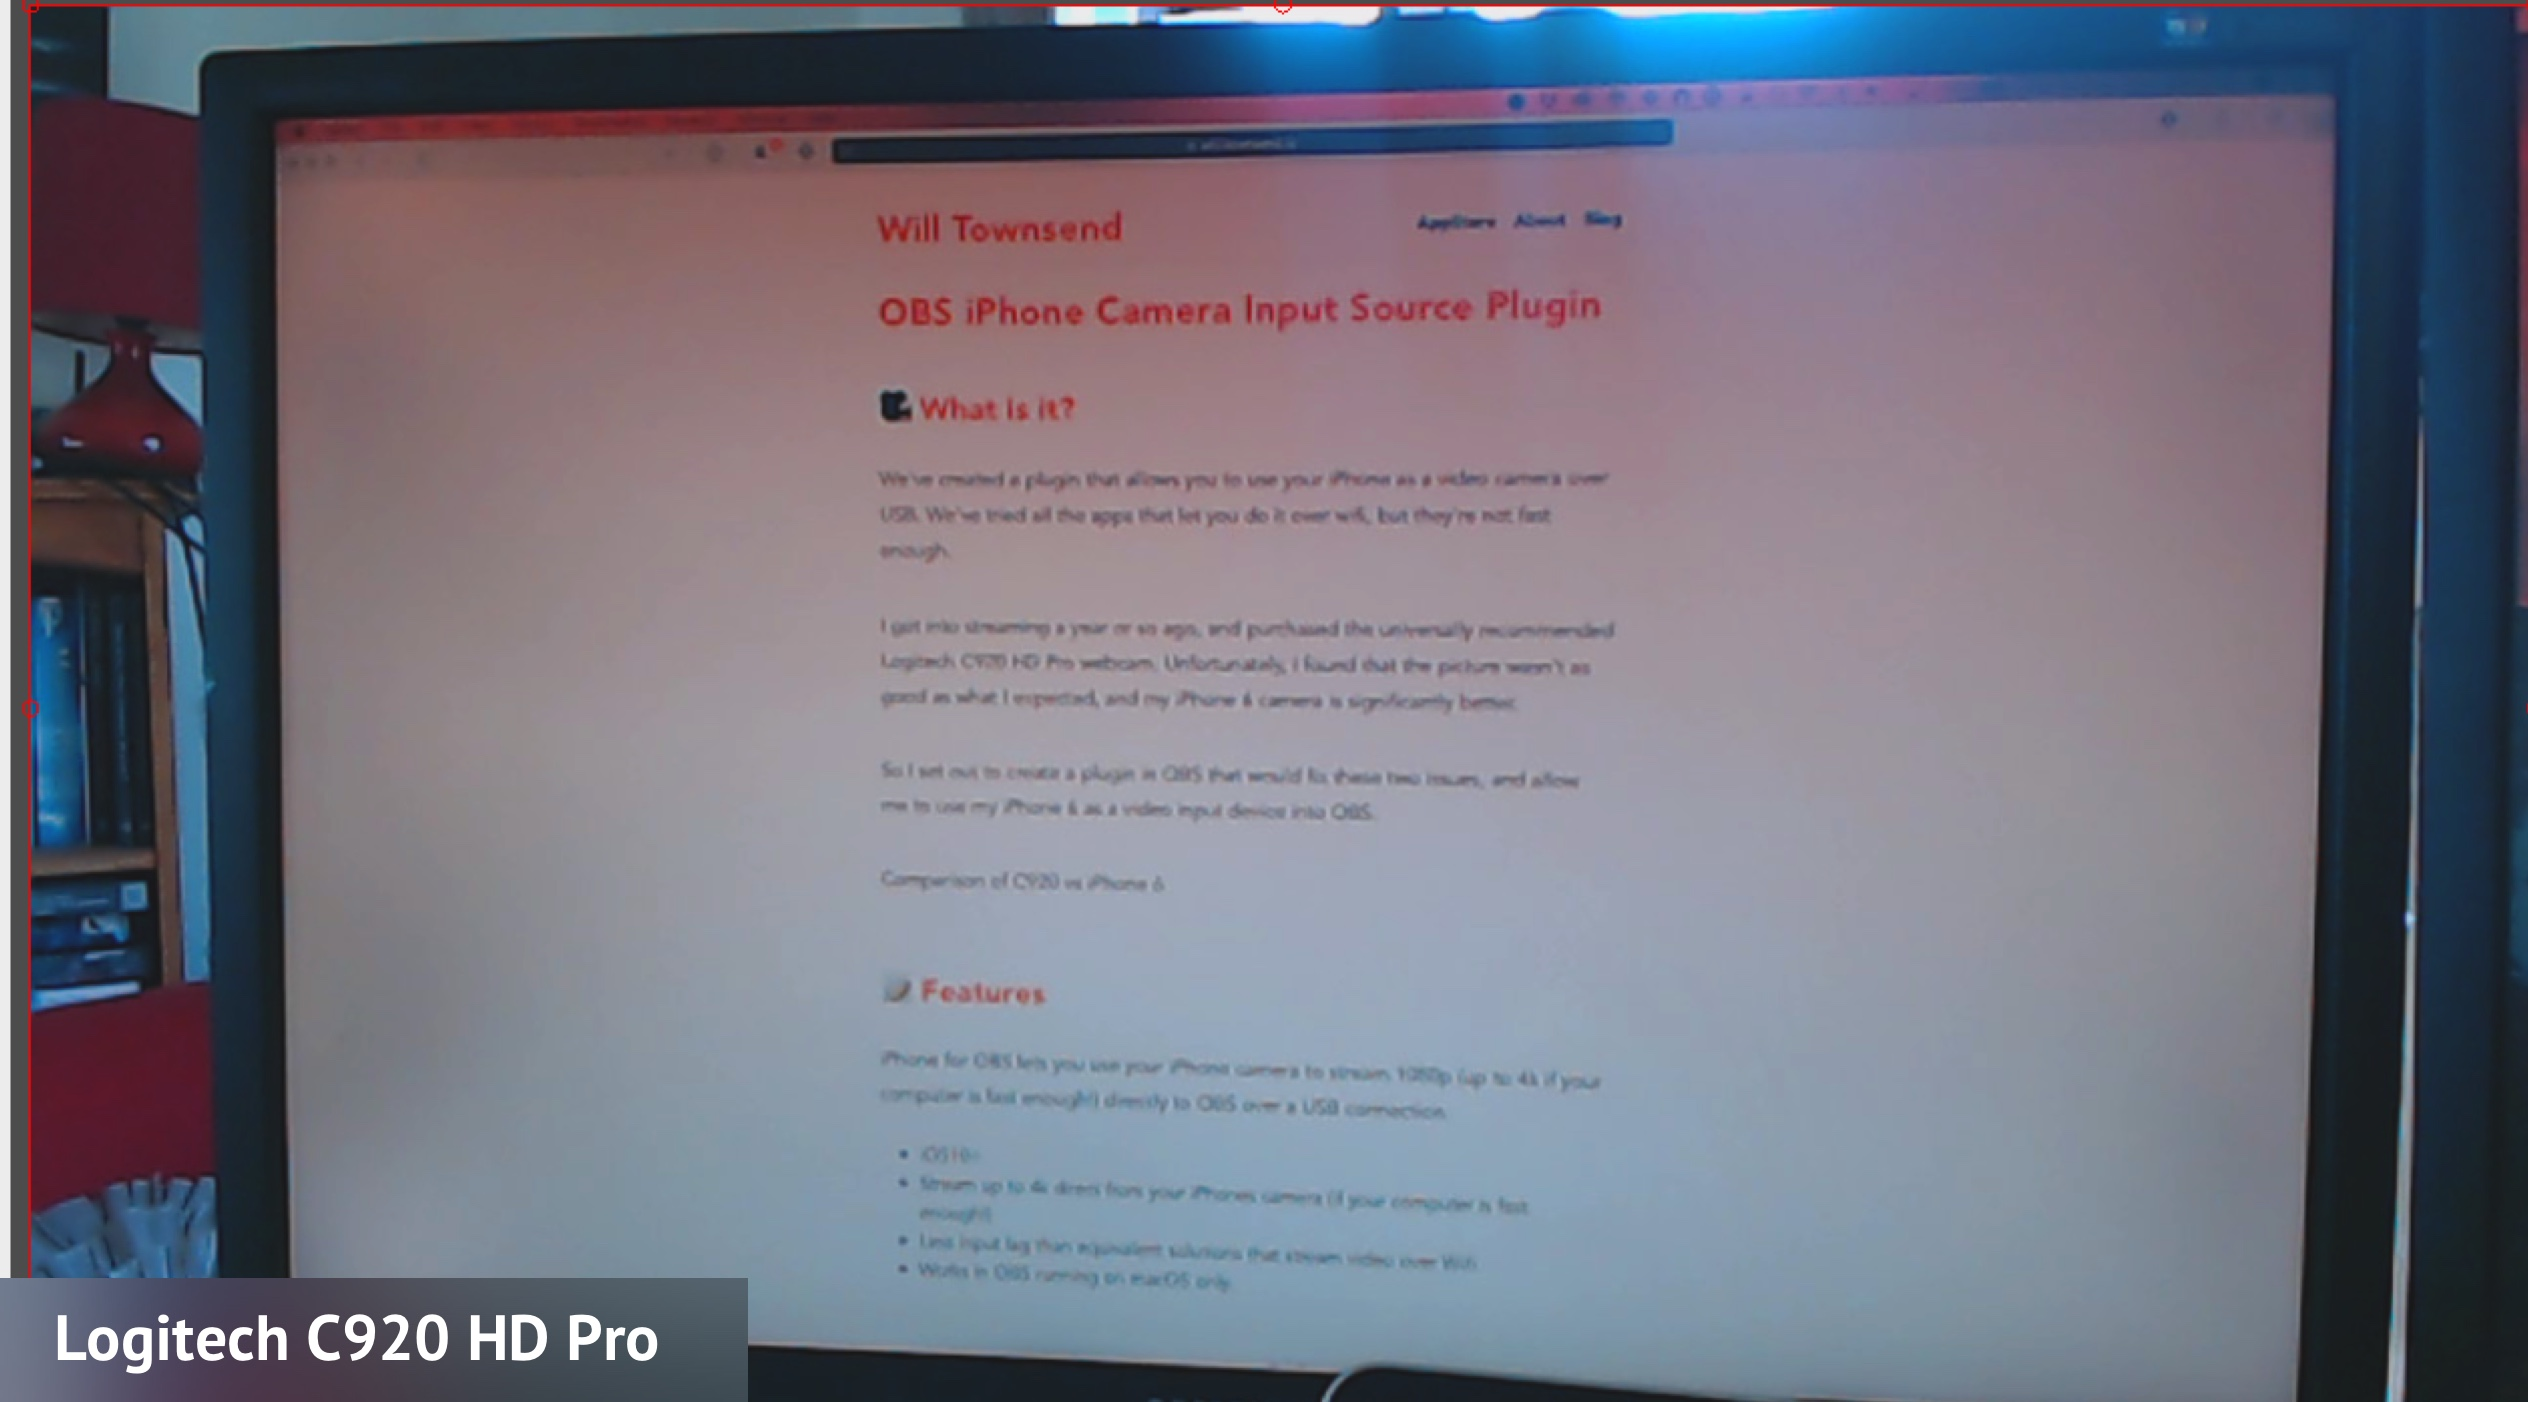
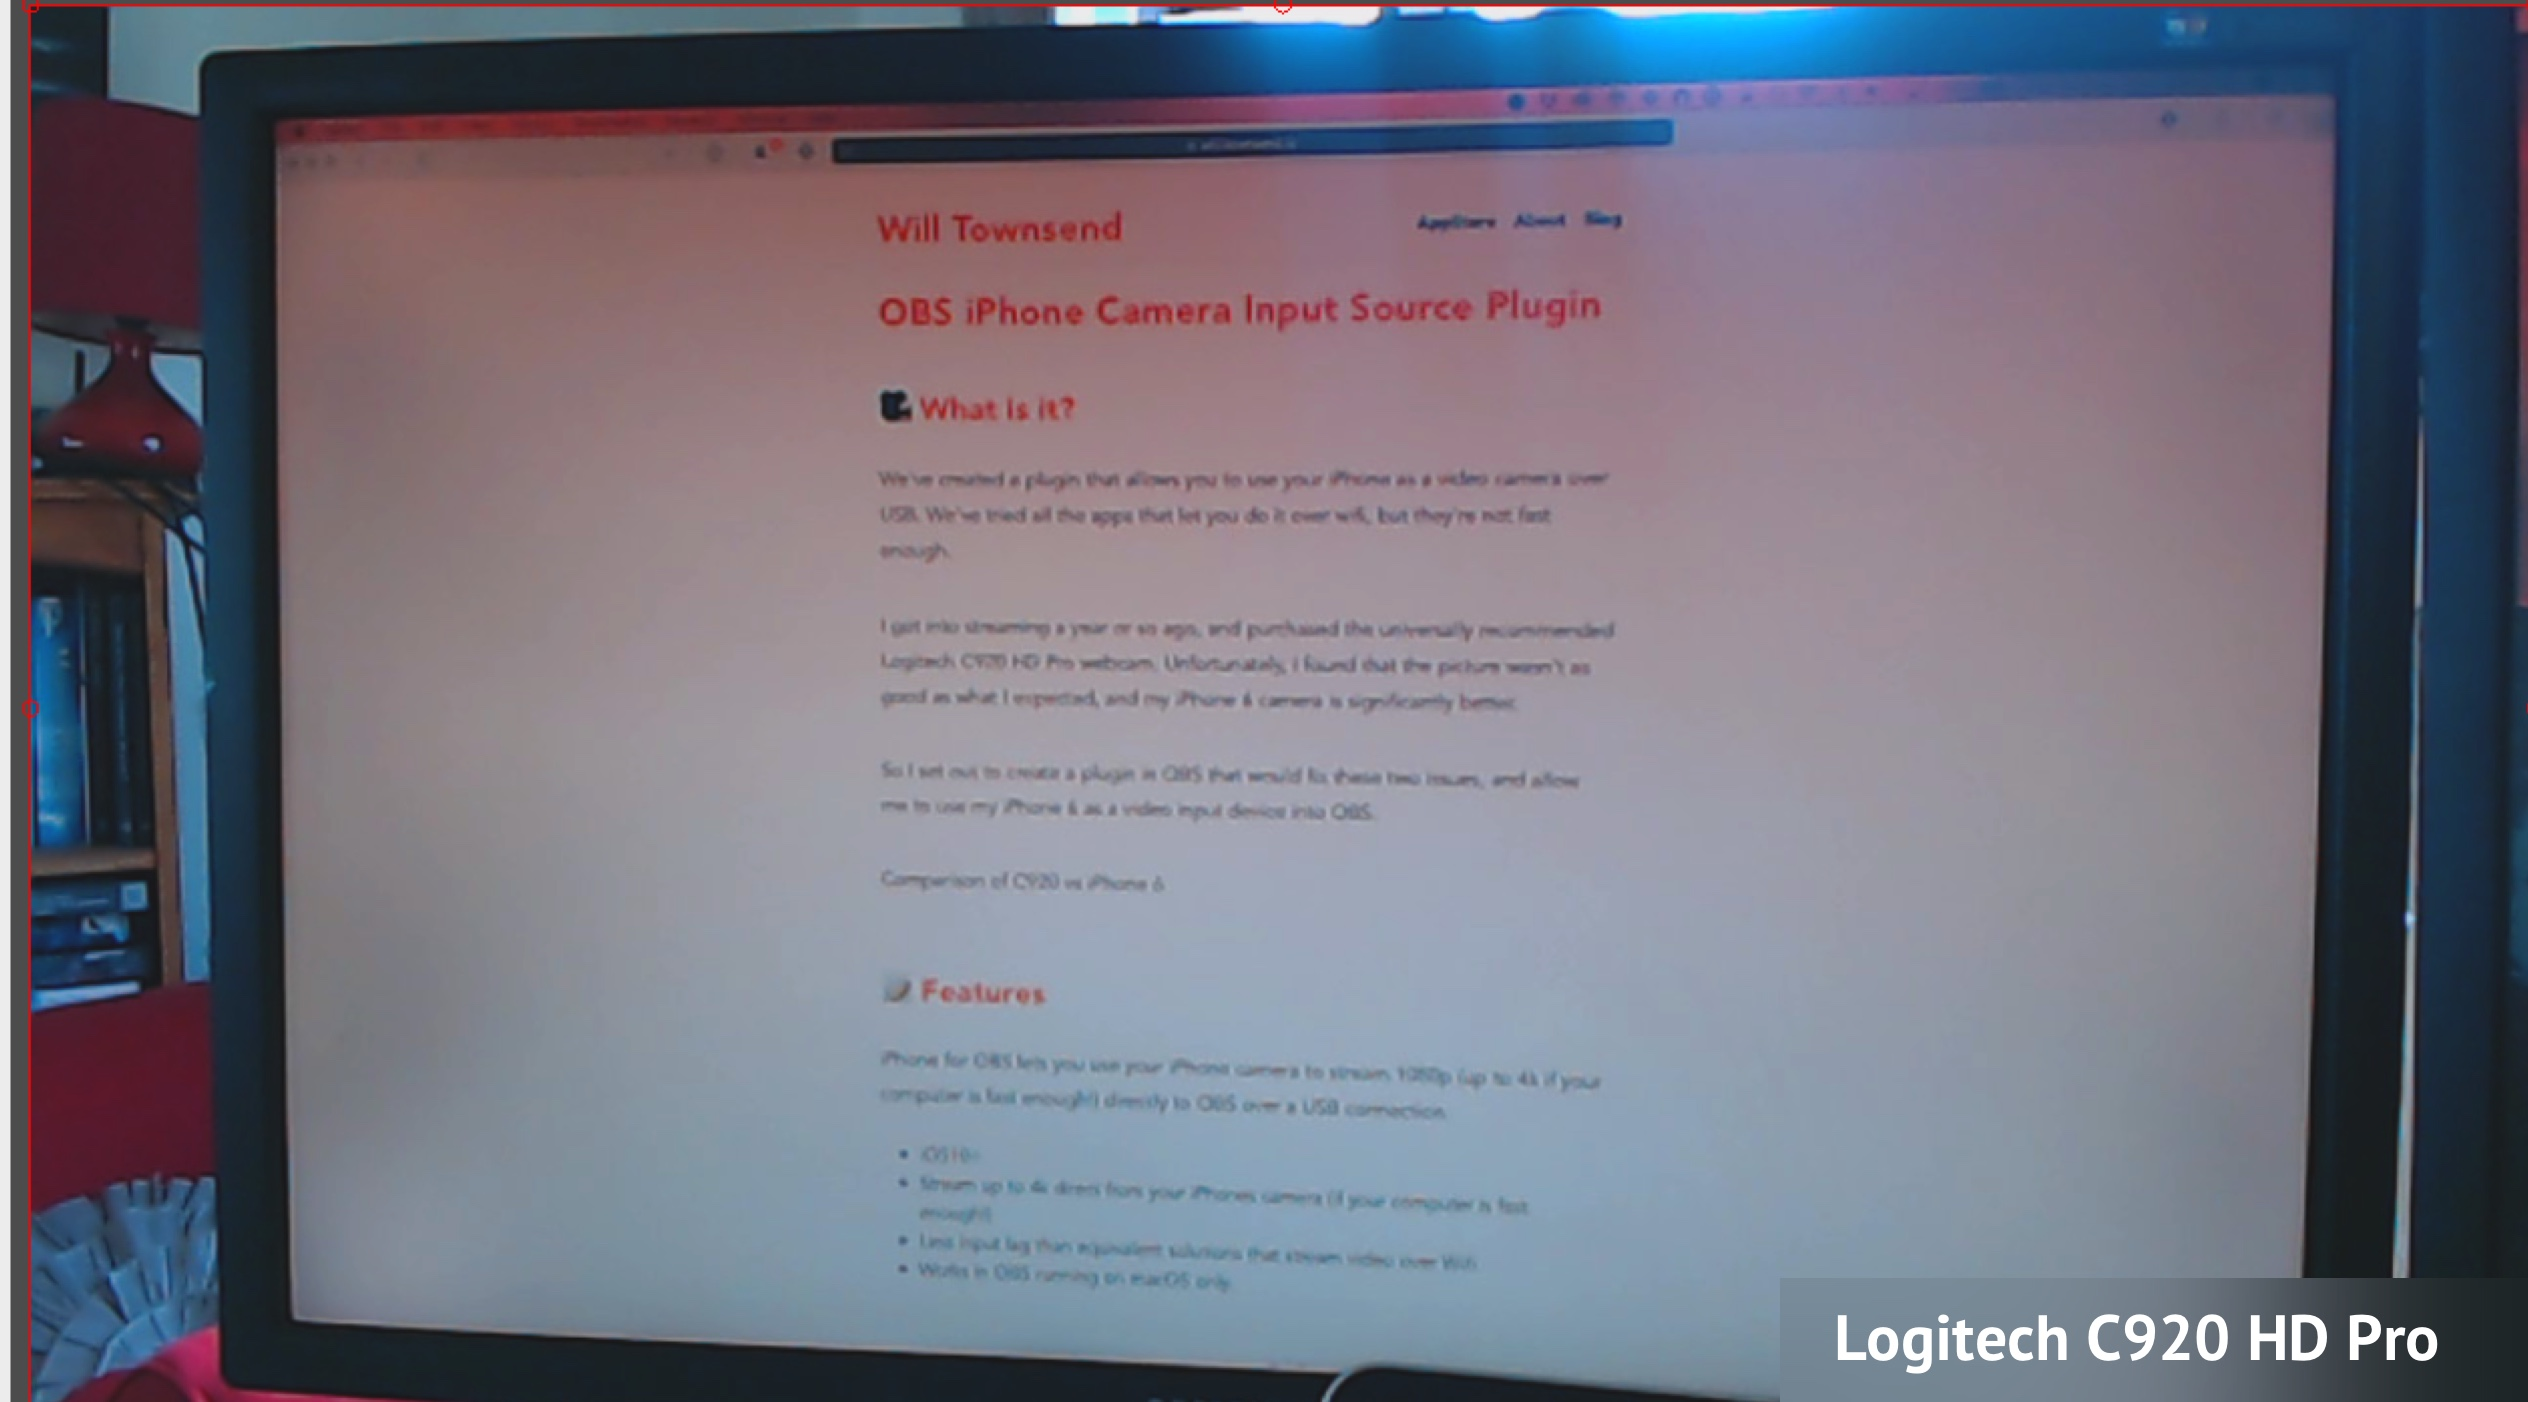
Improve image comparison slider

Changed region(s): [[0.0, 0.8894, 0.3125, 1.0], [0.7188, 0.8894, 0.9688, 1.0]]

diff --git a/products/obs-iphone/cocoen.min.js b/products/obs-iphone/cocoen.min.js
@@ -1,0 +1,1 @@
+!function(e){if("object"==typeof exports&&"undefined"!=typeof module)module.exports=e();else if("function"==typeof define&&define.amd)define([],e);else{var t;t="undefined"!=typeof window?window:"undefined"!=typeof global?global:"undefined"!=typeof self?self:this,t.Cocoen=e()}}(function(){return function e(t,n,i){function s(o,a){if(!n[o]){if(!t[o]){var l="function"==typeof require&&require;if(!a&&l)return l(o,!0);if(r)return r(o,!0);var d=new Error("Cannot find module '"+o+"'");throw d.code="MODULE_NOT_FOUND",d}var h=n[o]={exports:{}};t[o][0].call(h.exports,function(e){var n=t[o][1][e];return s(n?n:e)},h,h.exports,e,t,n,i)}return n[o].exports}for(var r="function"==typeof require&&require,o=0;o<i.length;o++)s(i[o]);return s}({1:[function(e,t,n){"use strict";function i(e,t){if(!(e instanceof t))throw new TypeError("Cannot call a class as a function")}var s=Object.assign||function(e){for(var t=1;t<arguments.length;t++){var n=arguments[t];for(var i in n)Object.prototype.hasOwnProperty.call(n,i)&&(e[i]=n[i])}return e},r=function(){function e(e,t){for(var n=0;n<t.length;n++){var i=t[n];i.enumerable=i.enumerable||!1,i.configurable=!0,"value"in i&&(i.writable=!0),Object.defineProperty(e,i.key,i)}}return function(t,n,i){return n&&e(t.prototype,n),i&&e(t,i),t}}(),o=function(){function e(t,n){i(this,e),this.options=s({},e.defaults,n),this.element=t||document.querySelector(".cocoen"),this.init()}return r(e,[{key:"init",value:function(){this.createElements(),this.addEventListeners(),this.dimensions()}},{key:"createElements",value:function(){var e=document.createElement("span");e.className=this.options.dragElementSelector.replace(".",""),this.element.appendChild(e);var t=document.createElement("div"),n=this.element.querySelector("img:first-child");t.appendChild(n.cloneNode(!0)),n.parentNode.replaceChild(t,n),this.dragElement=this.element.querySelector(this.options.dragElementSelector),this.beforeElement=this.element.querySelector("div:first-child"),this.beforeImage=this.beforeElement.querySelector("img")}},{key:"addEventListeners",value:function(){this.element.addEventListener("click",this.onTap.bind(this)),this.element.addEventListener("mousemove",this.onDrag.bind(this)),this.element.addEventListener("touchmove",this.onDrag.bind(this)),this.dragElement.addEventListener("mousedown",this.onDragStart.bind(this)),this.dragElement.addEventListener("touchstart",this.onDragStart.bind(this)),window.addEventListener("mouseup",this.onDragEnd.bind(this)),window.addEventListener("resize",this.dimensions.bind(this))}},{key:"dimensions",value:function(){this.elementWidth=parseInt(window.getComputedStyle(this.element).width,10),this.elementOffsetLeft=this.element.getBoundingClientRect().left+document.body.scrollLeft,this.beforeImage.style.width=this.elementWidth+"px",this.dragElementWidth=parseInt(window.getComputedStyle(this.dragElement).width,10),this.minLeftPos=this.elementOffsetLeft+10,this.maxLeftPos=this.elementOffsetLeft+this.elementWidth-this.dragElementWidth-10}},{key:"onTap",value:function(e){e.preventDefault(),this.leftPos=e.pageX?e.pageX:e.touches[0].pageX,this.requestDrag()}},{key:"onDragStart",value:function(e){e.preventDefault();var t=e.pageX?e.pageX:e.touches[0].pageX,n=this.dragElement.getBoundingClientRect().left+document.body.scrollLeft;this.posX=n+this.dragElementWidth-t,this.isDragging=!0}},{key:"onDragEnd",value:function(e){e.preventDefault(),this.isDragging=!1}},{key:"onDrag",value:function(e){e.preventDefault(),this.isDragging&&(this.moveX=e.pageX?e.pageX:e.touches[0].pageX,this.leftPos=this.moveX+this.posX-this.dragElementWidth,this.requestDrag())}},{key:"drag",value:function(){this.leftPos<this.minLeftPos?this.leftPos=this.minLeftPos:this.leftPos>this.maxLeftPos&&(this.leftPos=this.maxLeftPos);var e=this.leftPos+this.dragElementWidth/2-this.elementOffsetLeft;e/=this.elementWidth;var t=100*e+"%";this.dragElement.style.left=t,this.beforeElement.style.width=t,this.options.dragCallback&&this.options.dragCallback(e)}},{key:"requestDrag",value:function(){window.requestAnimationFrame(this.drag.bind(this))}}]),e}();o.defaults={dragElementSelector:".cocoen-drag",dragCallback:null},t.exports=o},{}]},{},[1])(1)});

diff --git a/products/obs-iphone/index.html b/products/obs-iphone/index.html
@@ -15,25 +15,28 @@ title: OBS iPhone Camera Input Source Plugin
 </script>
 
 <style>
- img {
+ .cocoen-container {
   margin: 0 -30%;
   width: 160%;
 }
 
 @media (max-width: 1000px) {
-   img {
+	.cocoen-container {
     margin: 0 -10%;
     width: 120%;
   }
 }
 
 @media (max-width: 800px) {
-  img {
+	.cocoen-container {
     margin: 0 0;
     width: 100%;
   }
 }
 </style>
+
+<script src="./cocoen.min.js"></script>
+<link rel="stylesheet" href="./cocoen.min.css" />
 
 <!-- Event snippet for Signed up for email newsletter conversion page
 In your html page, add the snippet and call gtag_report_conversion when someone clicks on the chosen link or button. -->
@@ -70,7 +73,15 @@ In your html page, add the snippet and call gtag_report_conversion when someone 
 
 <p>Check out the comparison between the two sources looking at this webpage. </p>
 
-<img src="./c920.jpg" data-alt-src="./iphone-6.jpg"></img>
+<div class="cocoen-container">
+		<div class="cocoen">
+				<img src="./iphone-6.jpg" alt="">
+				<img src="./c920.jpg" alt="">
+		</div>
+</div>
+
+
+<!-- <img src="./c920.jpg" data-alt-src="./iphone-6.jpg"></img> -->
 <p style="text-align: center;"><sub><i>Hover your mouse over to see the iPhone 6 input</i></sub></p>
 
 <br />
@@ -273,7 +284,10 @@ In your html page, add the snippet and call gtag_report_conversion when someone 
 
 <script src="https://ajax.googleapis.com/ajax/libs/jquery/3.3.1/jquery.min.js"></script>
 
+
 <script>
+
+	new Cocoen(document.querySelector('.cocoen'));
 
 	var sourceSwap = function () {
 		var $this = $(this);

diff --git a/products/obs-iphone/cocoen.min.css b/products/obs-iphone/cocoen.min.css
@@ -1,0 +1,1 @@
+.cocoen{box-sizing:border-box;cursor:pointer;line-height:0;margin:0;overflow:hidden;padding:0;position:relative;-webkit-user-select:none;-moz-user-select:none;-ms-user-select:none;user-select:none}.cocoen *{box-sizing:inherit}.cocoen ::after,.cocoen ::before{box-sizing:inherit}.cocoen img,.cocoen picture>img{max-width:none}.cocoen>img,.cocoen>picture>img{display:block;width:100%}.cocoen>div:first-child,picture .cocoen>div{height:100%;left:0;overflow:hidden;position:absolute;top:0;width:50%}.cocoen-drag{background:#fff;bottom:0;cursor:ew-resize;left:50%;margin-left:-1px;position:absolute;top:0;width:2px}.cocoen-drag::before{border:3px solid #fff;content:'';height:30px;left:50%;margin-left:-7px;margin-top:-18px;position:absolute;top:50%;width:14px}

diff --git a/products/obs-iphone/cocoen-jquery.min.js b/products/obs-iphone/cocoen-jquery.min.js
@@ -1,0 +1,1 @@
+!function r(n,e,t){function o(i,f){if(!e[i]){if(!n[i]){var c="function"==typeof require&&require;if(!f&&c)return c(i,!0);if(u)return u(i,!0);var a=new Error("Cannot find module '"+i+"'");throw a.code="MODULE_NOT_FOUND",a}var s=e[i]={exports:{}};n[i][0].call(s.exports,function(r){var e=n[i][1][r];return o(e?e:r)},s,s.exports,r,n,e,t)}return e[i].exports}for(var u="function"==typeof require&&require,i=0;i<t.length;i++)o(t[i]);return o}({1:[function(r,n,e){"use strict";!function(r,n){r&&n&&(r.fn.cocoen=function(e){function t(){return new n(this,r.extend({},n.defaults,e))}return this.each(t)})}(window.jQuery,window.Cocoen)},{}]},{},[1]);
